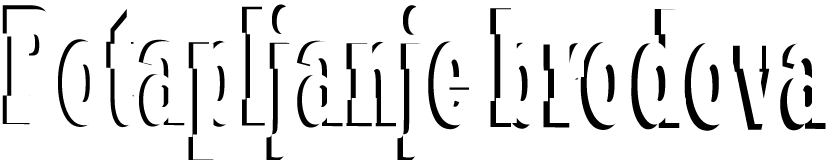
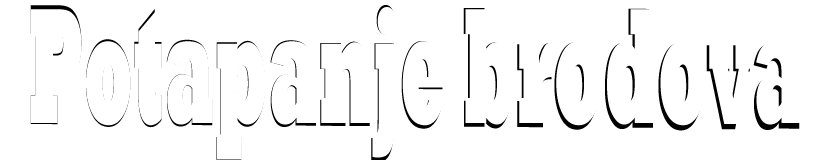
uljepsan malo main_menu

Changed region(s): [[0.0, 0.0312, 1.0, 1.0], [0.4375, 0.0312, 0.5, 0.2188]]

diff --git a/7.10.2022 Luka-početak programa/12.10.2022.py b/7.10.2022 Luka-početak programa/12.10.2022.py
@@ -20,12 +20,12 @@ clock = pygame.time.Clock()
 
 #Slike, zvuk, font
 #Loading screen
-LOGO = pygame.image.load(os.path.join("potapanje brodova", "MLKJR_LOGO.png" ))
+LOGO = pygame.image.load(os.path.join("potapanje brodova", "MLKJR_LOGO.png" )).convert_alpha()
 INTRO = pygame.mixer.Sound(os.path.join("potapanje brodova", "INTRO.ogg"))
 
 #Grid
-KVADRAT = pygame.image.load(os.path.join("potapanje brodova", "kvadrat.png"))
-OKOLNI_GRID = pygame.image.load(os.path.join("potapanje brodova", "okolni_grid.png"))
+KVADRAT = pygame.image.load(os.path.join("potapanje brodova", "kvadrat.png")).convert_alpha()
+OKOLNI_GRID = pygame.image.load(os.path.join("potapanje brodova", "okolni_grid.png")).convert_alpha()
 FONT_BROJ_SLOVO = pygame.font.Font(None, 30)
 
 #Play_score
@@ -113,6 +113,23 @@ VODA_IGRANJE = pygame.image.load(os.path.join("igranje", "plavi_ekrani.png" )).c
 VODA_IGRANJE_RECT = VODA_IGRANJE.get_rect(topleft=(0,0))
 
 play_run = True
+
+#Main menu grafika
+lista_bomba_animacija = []
+bomba_index = 0
+for i in range(1,27):
+    bomba = pygame.image.load(os.path.join("main_menu\omba_animacija", f'bomba_frame{i}.png' )).convert_alpha()
+    lista_bomba_animacija.append(bomba)
+lista_brod_animacija = []
+brod_index = 0
+for i in range(1,28):
+    brod = pygame.image.load(os.path.join("main_menu\od_animacija", f'brod_frame{i}.png' )).convert_alpha()
+    lista_brod_animacija.append(brod)
+lista_more_animacija = []
+more_index = 0
+for i in range(1,5):
+    more = pygame.image.load(os.path.join("main_menu\more_animacija", f'more{i}.png' )).convert_alpha()
+    lista_more_animacija.append(more)
 
 #Sve za Brod spriteove i provjere postavljanja
 Kvadrat_x, Kvadrat_y = 0, 0
@@ -624,7 +641,7 @@ def provjera_hovera(brod,lista_rect_kvadrata,mouse_pos,brodovi_rotacija): #Crven
                                 PROZOR.blit(ZELENI_KVADRATI.get(brod), zeleni_pravokutnik)
 
 def rotate_key_animacija(pozicija_misa):
-    global rotate_key_index, rotate_surf
+    global rotate_key_index
     rotate_key_index += 0.03
     if rotate_key_index >= len(rotate_lista):
         rotate_key_index = 0
@@ -1924,14 +1941,51 @@ def play():
         lista_imena_kvadrata_B = [] 
         resetiranje_prije_igre()
 
+def animacija_bombi():
+    global bomba_index
+    bomba_index += 0.12
+    if bomba_index >= len(lista_bomba_animacija):
+        bomba_index = 0
+    bomba_surf = lista_bomba_animacija[int(bomba_index)]
+    bomba_rect = bomba_surf.get_rect(topleft=(0,0))
+    PROZOR.blit(bomba_surf, bomba_rect)
+
+def animacija_broda():
+    global brod_index
+    brod_index += 0.09
+    if brod_index >= len(lista_brod_animacija):
+        brod_index = 0
+    brod_surf = lista_brod_animacija[int(brod_index)]
+    brod_rect = brod_surf.get_rect(topleft=(0,0))
+    PROZOR.blit(brod_surf, brod_rect)
+
+def animacija_more():
+    global more_index
+    more_index += 0.02
+    if more_index >= len(lista_more_animacija):
+        more_index = 0
+    more_surf = lista_more_animacija[int(more_index)]
+    more_rect = more_surf.get_rect(topleft=(0,0))
+    PROZOR.blit(more_surf, more_rect)
+
 def main():
     #LOADING_SCREEN()
     global zmaj
     tupi_zvuk = 1
     gumboslav = None
+    PANORAMA = pygame.image.load(os.path.join("main_menu", "background.png" )).convert_alpha()
+    PANORAMA_RECT = PANORAMA.get_rect(topleft=(0,0))
+    NASLOV = pygame.image.load(os.path.join("main_menu", "naslov.png" )).convert_alpha()
+    NASLOV_RECT = NASLOV.get_rect(topleft=(224,32))
     while True:
         zmaj = False
         PROZOR.fill('White')
+        PROZOR.blit(PANORAMA, PANORAMA_RECT)
+        animacija_bombi()
+        PROZOR.blit(NASLOV, NASLOV_RECT)
+        animacija_broda()
+        animacija_more()
+        PROZOR.blit(NASLOV, NASLOV_RECT)
         menu_mouse_poz = pygame.mouse.get_pos()
         GUMB_PLAY = Button(text_input = "Play", text_size = 30, text_color = 'Black', rect_width = 200, rect_height = 40, rect_color = '#475F77', hoveringRect_color = '#77dd77', pos = (640,200))
         GUMB_SCORE = Button(text_input = "Score", text_size = 30, text_color = 'Black', rect_width = 200, rect_height = 40, rect_color = '#475F77', hoveringRect_color = '#77dd77', pos = (640,275))
